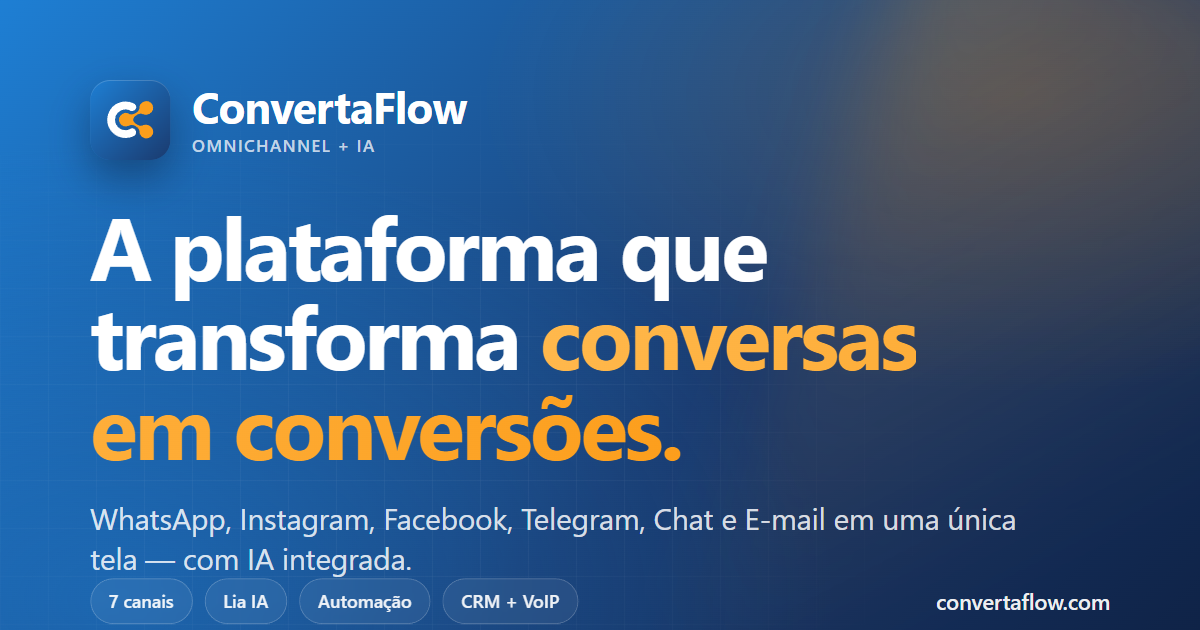
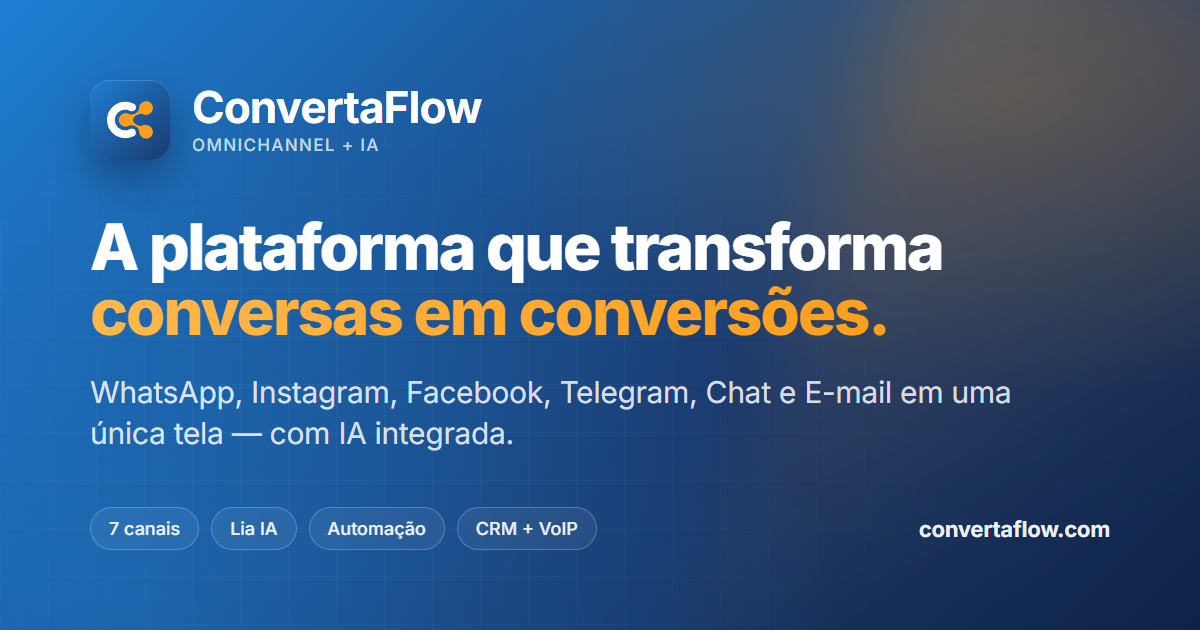
fix(og-image): migra fonte Geist -> Inter + corrige espacamento inferior
- Substitui CDN jsDelivr/geist por Google Fonts Inter (400/500/700/800/italic700)
- font-weight: 700 -> 800 (ExtraBold) no headline, alinhando com padrao do app
- Headline: 88px -> 64px para caber em 2 linhas e liberar padding inferior
- Remove margin-top: 40px do .mid (alinhado com guia-agente.html do app)
- Regenera og-image.png via Playwright 1200x630

diff --git a/og-image.html b/og-image.html
@@ -4,14 +4,14 @@
 <meta charset="UTF-8">
 <meta name="robots" content="noindex, nofollow">
 <title>OG image render — 1200x630 (fonte para og-image.png)</title>
-<link rel="preconnect" href="https://cdn.jsdelivr.net" crossorigin>
-<link rel="stylesheet" href="https://cdn.jsdelivr.net/npm/geist@1.3.0/dist/font/sans.css">
+<link rel="preconnect" href="https://fonts.googleapis.com" crossorigin>
+<link rel="stylesheet" href="https://fonts.googleapis.com/css2?family=Inter:ital,wght@0,400;0,500;0,700;0,800;1,700&display=swap">
 <style>
   *, *::before, *::after { margin: 0; padding: 0; box-sizing: border-box; }
   html, body { background: #0b1a33; }
   body {
     width: 1200px; height: 630px;
-    font-family: "Geist", system-ui, -apple-system, "Segoe UI", sans-serif;
+    font-family: "Inter", system-ui, -apple-system, sans-serif;
     color: #fff;
     position: relative;
     overflow: hidden;
@@ -72,10 +72,10 @@
     margin-top: 6px;
   }
 
-  .mid { margin-top: 40px; }
+  .mid { margin-top: 0; }
   .headline {
-    font-size: 88px;
-    font-weight: 700;
+    font-size: 64px;
+    font-weight: 800;
     letter-spacing: -0.035em;
     line-height: 1.02;
     max-width: 940px;